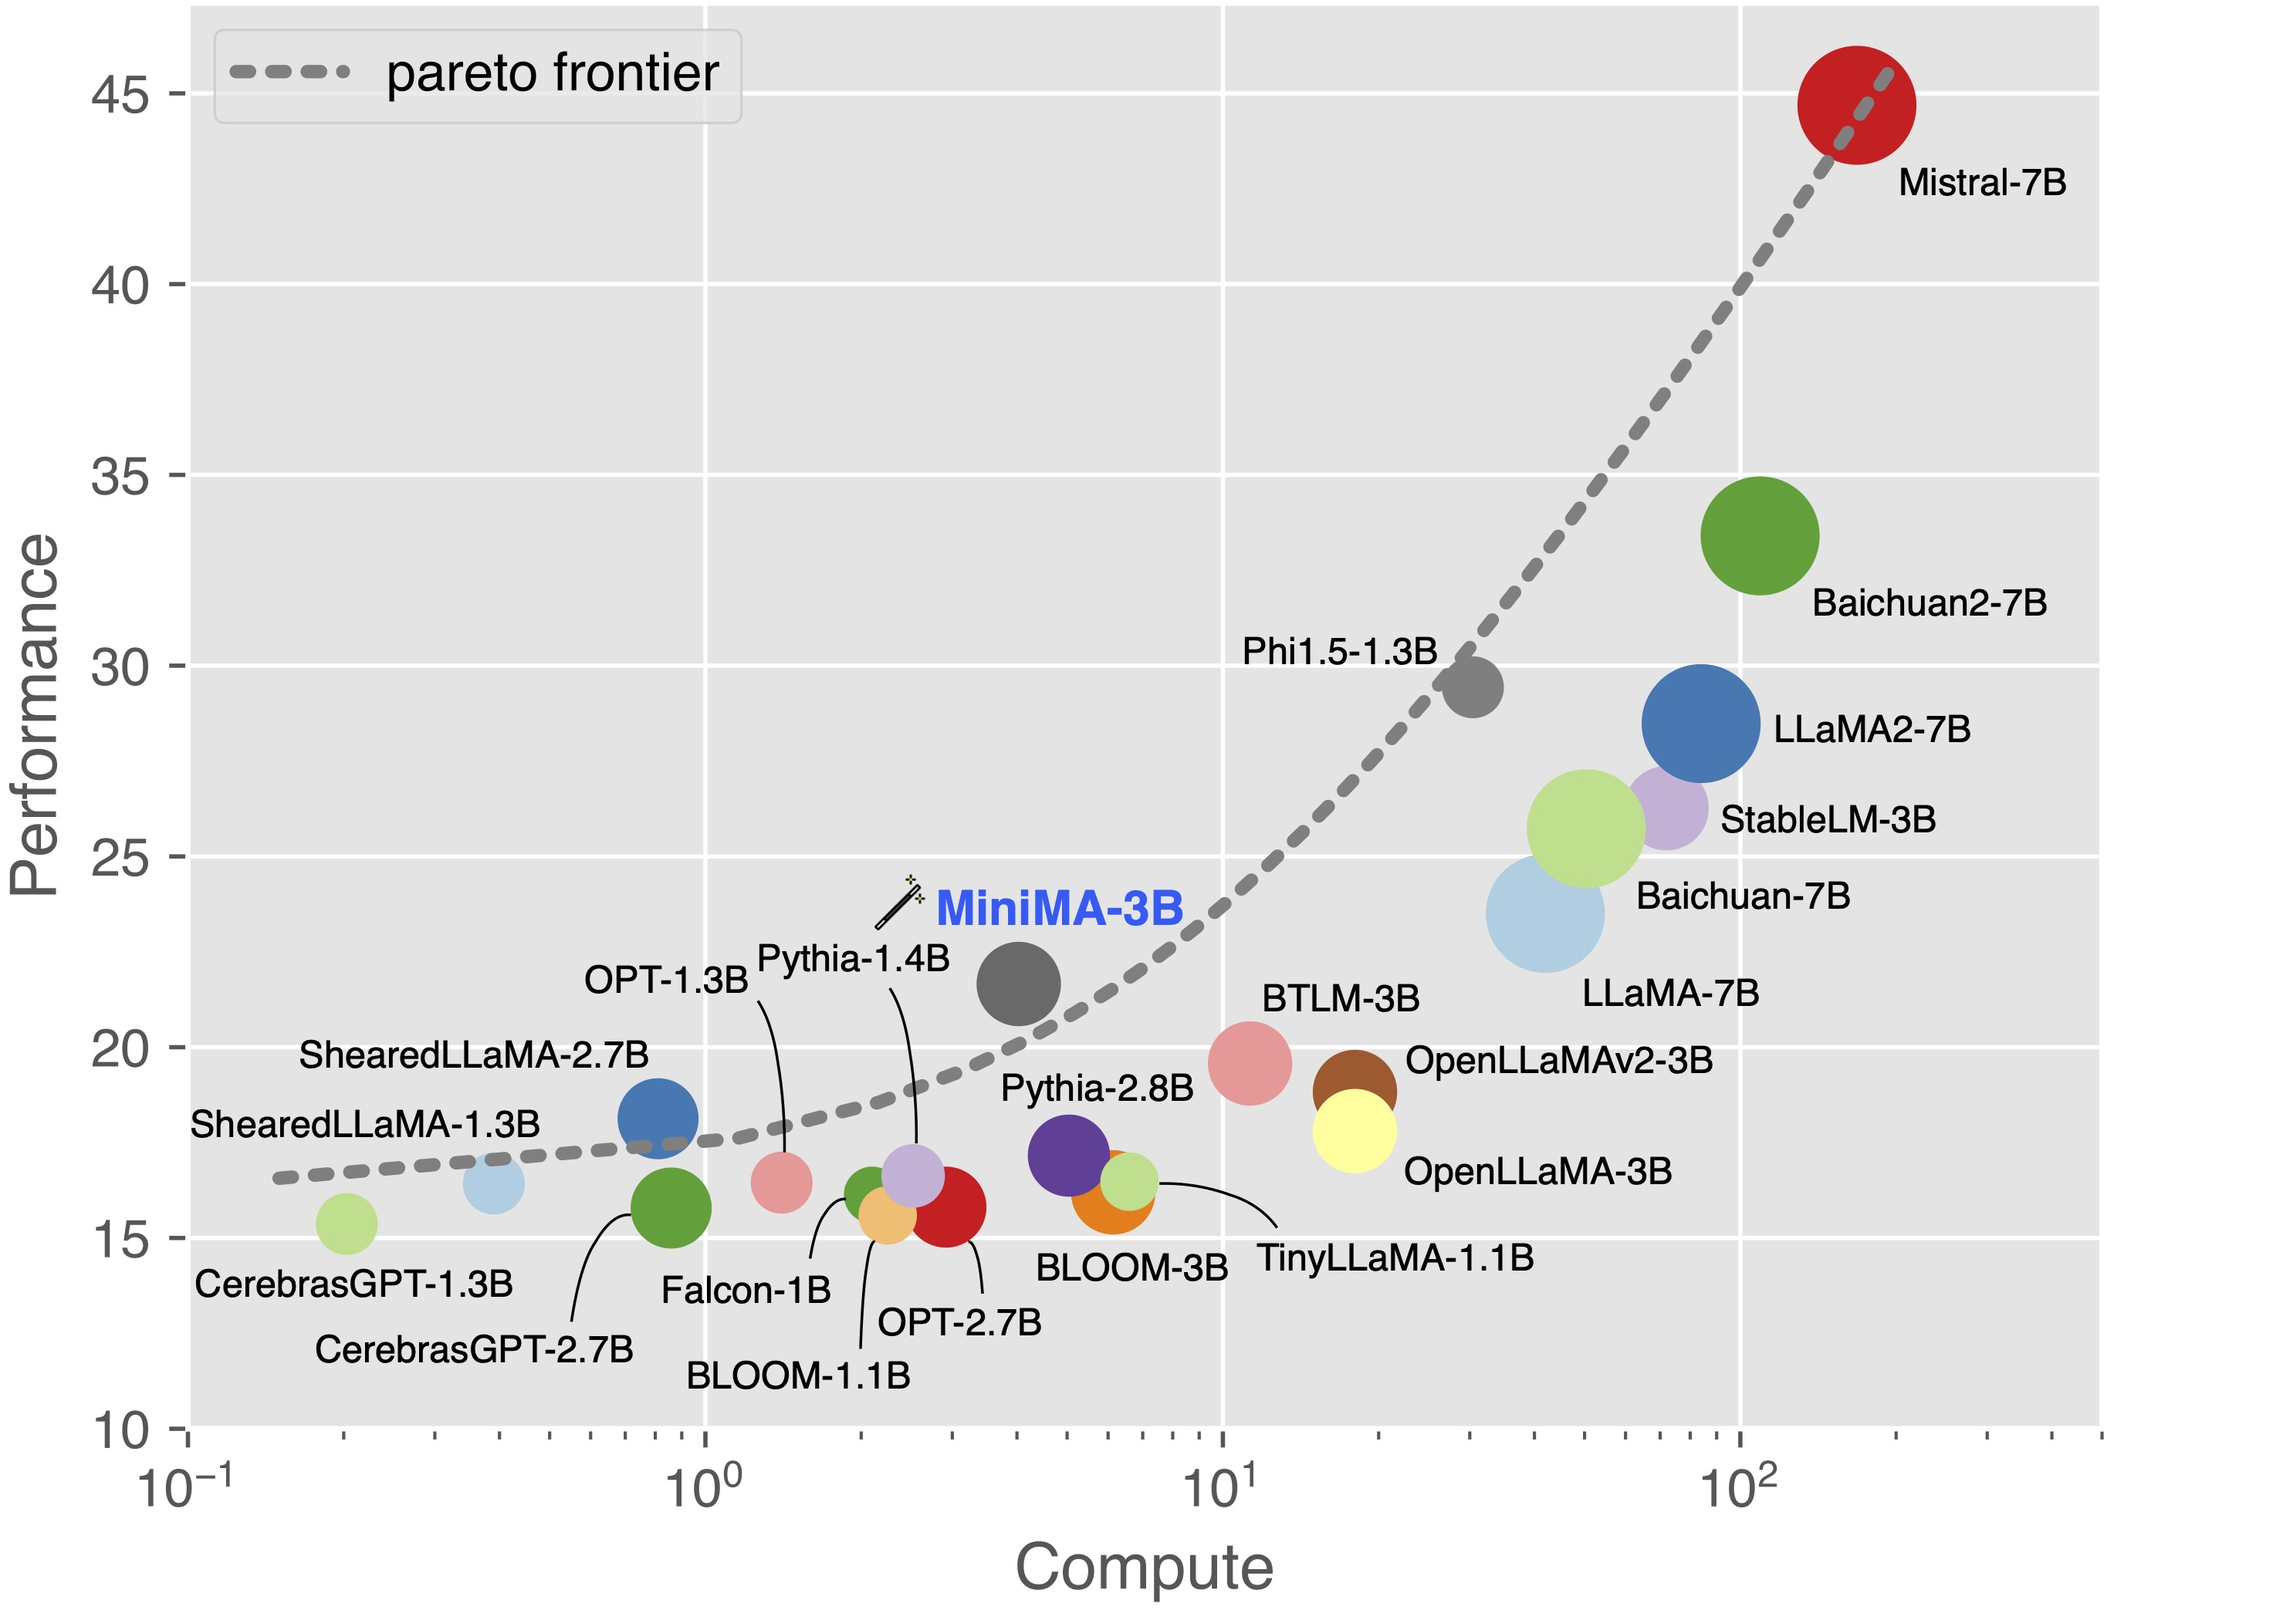
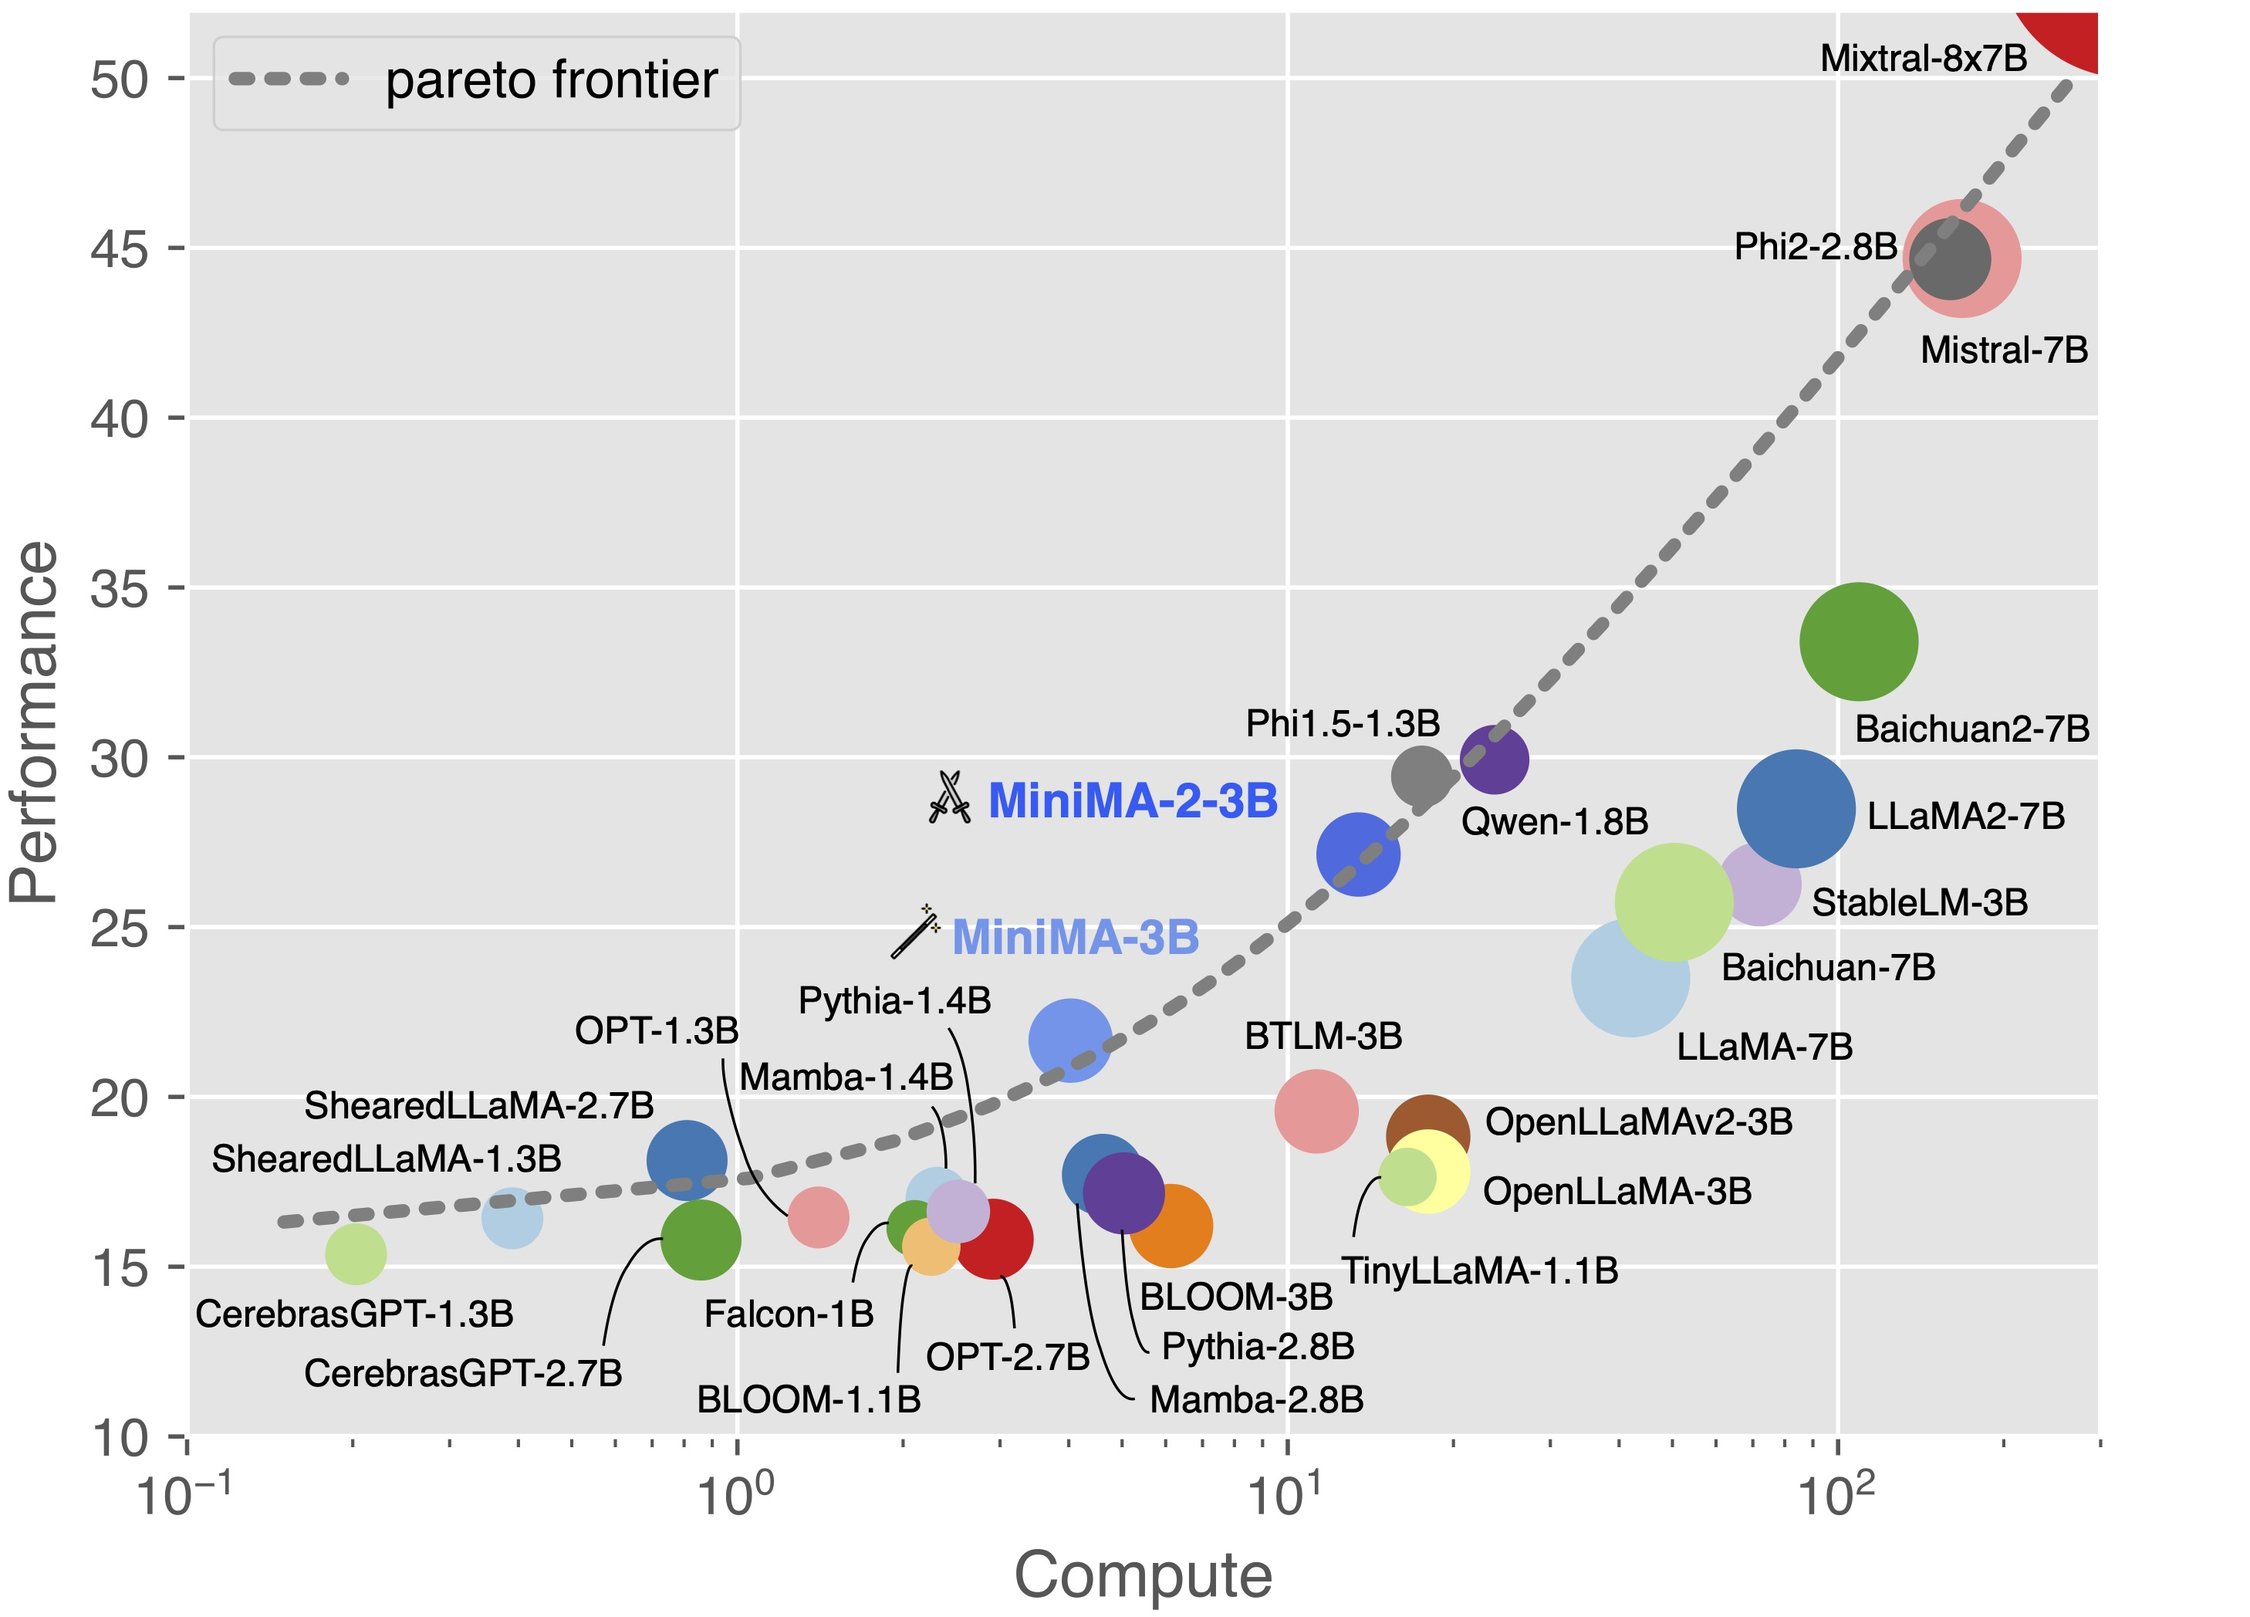
Add MiniMA-2 and MiniChat-2

diff --git a/README.md b/README.md
@@ -5,17 +5,18 @@
 Logo for MiniMA designed with DALL·E
 </p>
 
-📑 [arXiv](https://arxiv.org/abs/2311.07052) | 👻 [GitHub](https://github.com/GeneZC/MiniMA) | 🤗 [HuggingFace-MiniMA](https://huggingface.co/GeneZC/MiniMA-3B) | 🤗 [HuggingFace-MiniChat](https://huggingface.co/GeneZC/MiniChat-3B) | 🤗 [HuggingFace-MiniChat-1.5](https://huggingface.co/GeneZC/MiniChat-1.5-3B) | 🤖 [ModelScope-MiniMA](https://modelscope.cn/models/GeneZC/MiniMA-3B) | 🤖 [ModelScope-MiniChat](https://modelscope.cn/models/GeneZC/MiniChat-3B)
+📑 [arXiv](https://arxiv.org/abs/2311.07052) | 👻 [GitHub](https://github.com/GeneZC/MiniMA) | 🤗 [HuggingFace-MiniMA](https://huggingface.co/GeneZC/MiniMA-3B) | 🤗 [HuggingFace-MiniChat](https://huggingface.co/GeneZC/MiniChat-3B) | 🤖 [ModelScope-MiniMA](https://modelscope.cn/models/GeneZC/MiniMA-3B) | 🤖 [ModelScope-MiniChat](https://modelscope.cn/models/GeneZC/MiniChat-3B) | 🤗 [HuggingFace-MiniChat-1.5](https://huggingface.co/GeneZC/MiniChat-1.5-3B) | 🤗 [HuggingFace-MiniMA-2](https://huggingface.co/GeneZC/MiniMA-2-3B) | 🤗 [HuggingFace-MiniChat-2](https://huggingface.co/GeneZC/MiniChat-2-3B)
 
 Language model (LM) distillation is a trending area that aims to distil the knowledge resided in a large teacher LM to a small student one. While various methods have been proposed to push the distillation to its limits, it is still a pain distilling LMs when a large capacity gap is exhibited between the teacher and the student LMs. The pain is mainly resulted by the curse of capacity gap, which describes that a larger teacher LM cannot always lead to a better student LM than one distilled from a smaller teacher LM due to the affect of capacity gap increment. That is, there is likely an optimal point yielding the best student LM along the scaling course of the teacher LM. Even worse, the curse of capacity gap can be only partly yet not fully lifted as indicated in previous studies.
 
 However, the tale is not ever one-sided. Although a larger teacher LM has better performance than a smaller teacher LM, it is much more resource-demanding especially in the context of recent large LMs (LLMs). Consequently, instead of sticking to lifting the curse, leaving the curse as is should be arguably fine. Even better, in this paper, we reveal that the optimal capacity gap is almost consistent across different student scales and architectures, fortunately turning the curse into the law of capacity gap. The law later guides us to distil a 3B student LM (termed MiniMA) from a 7B teacher LM (adapted LLaMA2-7B). MiniMA is demonstrated to yield a new compute-performance pareto frontier among existing 3B LMs on commonly used benchmarks, and its instruction-tuned version (termed MiniChat) outperforms a wide range of 3B competitors in GPT4 evaluation and could even compete with several 7B chat models. 
 
-<img src="./assets/teaser_a.jpg" alt="teaser_a" width="400" /> <img src="./assets/teaser_b.jpg" alt="teaser_b" width="387"/>
+<img src="./assets/teaser_a.jpg" alt="teaser_a" width="400" /> <img src="./assets/teaser_b.jpg" alt="teaser_b" width="355"/>
 
 ## 🔗 Quick Links
 
 - [Updates](#%EF%B8%8F-updates)
+- [Performance](-performance)
 - [Quick Start](#-quick-start)
 - [Tutorials](#-tutorials)
 - [Future Work](#-future-work)
@@ -24,17 +25,52 @@ However, the tale is not ever one-sided. Although a larger teacher LM has better
 
 ## 🕰 Updates
 
-<img src="./assets/openllm.png" alt="openllm" width="550" /> <img src="./assets/alpacaeval.png" alt="alpacaeval" width="220" />
+[2023/12/27] Performance results are added for potential references in [Performance](#-performance). Still room for improvement, bravo!
 
-[2023/11/27] MiniChat1.5-3B (enhanced with NEFTune and DPO) achieves a win rate of 78.55 : ) Keep going! However, we have found a mistake in our MiniChat-3B submission to AlpacaEval Leaderboard. And the mistake should have been [fixed](https://github.com/tatsu-lab/alpaca_eval/pull/176). MiniChat-3B instead achieves a win rate of 48.82 and can surpass ChatGLM2 but not Davinci-003.
+[2023/12/27] MiniMA-2-3B and MiniChat-2-3B are successfully landed. MiniMA-2-3B is continued from MiniMA-3B with a more diverse data sources in Chinese, and MiniChat-2-3B are finetuned and optimized on a range of instruction and preference data. MiniMA-2-3B together with MiniMA-3B and other arts completes the new compute-performance pareto frontier, and MiniChat-2-3B achieves a score of 6.23 on [MT-Bench](https://huggingface.co/spaces/lmsys/chatbot-arena-leaderboard), surpassing Vicuna-7B and approximating LLaMA-2-Chat-7B.
+
+[2023/11/27] MiniChat-1.5-3B (MiniChat-3B enhanced with NEFTune and DPO) achieves a win rate of 78.55 on AlpacaEval Leaderboard : ) Keep going! However, we have found a mistake in our MiniChat-3B submission. And the mistake should be [fixed](https://github.com/tatsu-lab/alpaca_eval/pull/176). MiniChat-3B instead achieves a win rate of 48.82 and can surpass ChatGLM2 but not Davinci-003.
 
 [2023/11/16] MiniChat-3B achieves a win rate of ~~76.94~~ 48.82 on [AlpacaEval Leaderboard](https://tatsu-lab.github.io/alpaca_eval/), ~~surpassing Vicuna-7B v1.3 and~~ leaving large room for improvement.
 
-[2023/11/15] Wait, what!? MiniMA2 is on the way! Just stay tuned ; ) The release is scheduled at the begining of year 2024 and hopefully it could be timely.
+[2023/11/15] Wait, what!? MiniMA-2 is on the way! Just stay tuned ; ) The release is scheduled at the begining of year 2024 and hopefully it could be timely.
 
-[2023/11/14] For models <= 3B on [Open LLM Leaderboard](https://huggingface.co/spaces/HuggingFaceH4/open_llm_leaderboard), MiniMA surpasses ShearedLLaMA-2.7B and ranks #14, and MiniChat (potentially with unidentified data contamination) surpasses Phi1.5 and ranks #2.
+[2023/11/14] For models <= 3B on [Open LLM Leaderboard](https://huggingface.co/spaces/HuggingFaceH4/open_llm_leaderboard), MiniMA-3B surpasses ShearedLLaMA-2.7B and ranks #14, and MiniChat-3B (potentially with unidentified data contamination) surpasses Phi1.5 and ranks #2.
 
 [2023/11/14] We have released the paper, uploaded the checkpoints, and updated the codebase.
+
+## 📊 Performance
+
+**Standard Benchmarks**
+
+|Method|TFLOPs|MMLU (5-shot)|CEval (5-shot)|DROP (3-shot)|HumanEval (0-shot)|BBH (3-shot)|GSM8K (8-shot)|
+|--|--|--|--|--|--|--|--|
+|Mamba-2.8B|4.6E9|25.58|24.74|15.72|7.32|29.37|3.49|
+|ShearedLLaMA-2.7B|0.8E9|26.97|22.88|19.98|4.88|30.48|3.56|
+|BTLM-3B|11.3E9|27.20|26.00|17.84|10.98|30.87|4.55|
+|StableLM-3B|72.0E9|44.75|31.05|22.35|15.85|32.59|10.99|
+|Qwen-1.8B|23.8E9|44.05|54.75|12.97|14.02|30.80|22.97|
+|Phi-2-2.8B|159.9E9|56.74|34.03|30.74|46.95|44.13|55.42|
+|LLaMA-2-7B|84.0E9|46.00|34.40|31.57|12.80|32.02|14.10|
+||
+|MiniMA-3B|4.0E9|28.51|28.23|22.50|10.98|31.61|8.11|
+|MiniChat-3B|4.0E9|38.40|36.48|22.58|18.29|31.36|29.72|
+|MiniMA-2-3B|13.4E9|40.14|44.65|23.10|14.63|31.43|8.87|
+|MiniChat-2-3B|13.4E9|46.17|43.91|30.26|22.56|34.95|38.13|
+
+**Instruction-following Benchmarks**
+
+|Method|AlpacaEval|MT-Bench|
+|--|--|--|
+|GPT-4|95.28|9.18|
+|Zephyr-7B-Beta|90.60|7.34|
+|Phi-2-DPO|81.37|-|
+|StableLM Zephyr 3B|76.00|6.64|
+|Vicuna-7B|76.84|6.17|
+|LLaMA-2-Chat-7B|71.37|6.27|
+||
+|MiniChat-3B|48.82|-|
+|MiniChat-2-3B|77.30|6.23|
 
 ## ✨ Quick Start
 
@@ -48,11 +84,11 @@ import torch
 from transformers import AutoModelForCausalLM, AutoTokenizer
 
 # MiniMA
-tokenizer = AutoTokenizer.from_pretrained("GeneZC/MiniMA-3B", use_fast=False)
+tokenizer = AutoTokenizer.from_pretrained("GeneZC/MiniMA-2-3B", use_fast=False)
 # GPU.
-model = AutoModelForCausalLM.from_pretrained("GeneZC/MiniMA-3B", use_cache=True, device_map="auto", torch_dtype=torch.float16).eval()
+model = AutoModelForCausalLM.from_pretrained("GeneZC/MiniMA-2-3B", use_cache=True, device_map="auto", torch_dtype=torch.float16).eval()
 # CPU.
-# model = AutoModelForCausalLM.from_pretrained("GeneZC/MiniMA-3B", use_cache=True, device_map="cpu", torch_dtype=torch.float16).eval()
+# model = AutoModelForCausalLM.from_pretrained("GeneZC/MiniMA-2-3B", use_cache=True, device_map="cpu", torch_dtype=torch.float16).eval()
 
 prompt = "Question: Sherrie tells the truth. Vernell says Sherrie tells the truth. Alexis says Vernell lies. Michaela says Alexis tells the truth. Elanor says Michaela tells the truth. Does Elanor tell the truth?\nAnswer: No\n\nQuestion: Kristian lies. Sherrie says Kristian lies. Delbert says Sherrie lies. Jerry says Delbert tells the truth. Shalonda says Jerry tells the truth. Does Shalonda tell the truth?\nAnswer: No\n\nQuestion: Vina tells the truth. Helene says Vina lies. Kandi says Helene tells the truth. Jamey says Kandi lies. Ka says Jamey lies. Does Ka tell the truth?\nAnswer: No\n\nQuestion: Christie tells the truth. Ka says Christie tells the truth. Delbert says Ka lies. Leda says Delbert tells the truth. Lorine says Leda tells the truth. Does Lorine tell the truth?\nAnswer:"
 input_ids = tokenizer([prompt]).input_ids
@@ -69,11 +105,11 @@ output = tokenizer.decode(output_ids, skip_special_tokens=True).strip()
 from conversation import get_default_conv_template
 
 # MiniChat
-tokenizer = AutoTokenizer.from_pretrained("GeneZC/MiniChat-3B", use_fast=False)
+tokenizer = AutoTokenizer.from_pretrained("GeneZC/MiniChat-2-3B", use_fast=False)
 # GPU.
-model = AutoModelForCausalLM.from_pretrained("GeneZC/MiniChat-3B", use_cache=True, device_map="auto", torch_dtype=torch.float16).eval()
+model = AutoModelForCausalLM.from_pretrained("GeneZC/MiniChat-2-3B", use_cache=True, device_map="auto", torch_dtype=torch.float16).eval()
 # CPU.
-# model = AutoModelForCausalLM.from_pretrained("GeneZC/MiniChat-3B", use_cache=True, device_map="cpu", torch_dtype=torch.float16).eval()
+# model = AutoModelForCausalLM.from_pretrained("GeneZC/MiniChat-2-3B", use_cache=True, device_map="cpu", torch_dtype=torch.float16).eval()
 
 conv = get_default_conv_template("minichat")
 
@@ -102,13 +138,12 @@ Detailed tutorials can be found [here](./TUTORIAL.md).
 
 ## 🔮 Future Work
 
-- A more diverse blend of data sources, e.g., Chinese wikipedia, books, etc.
-- Combined with preference optimization, e.g., DPO to MiniChat.
-- Smaller models, e.g., 1.2B model, say NanoMA.
-- Designed for speculative sampling, e.g., MiniMA to LLaMA for inference efficiency.
-- Designed with infinite inference length, e.g., attention sinks.
-- Integrated with vision, e.g., MiniChat-V.
-- Compatible with long context, e.g., MiniChat-L.
+- [x] Combined with preference optimization, e.g., DPO to MiniChat.
+- [x] A more diverse blend of data sources, e.g., Chinese wikipedia, books, etc.
+- [] MoE models, e.g. MiniMA-MoE.
+- [] Designed for speculative sampling, e.g., MiniMA to LLaMA for inference efficiency.
+- [] Designed with infinite inference length, e.g., attention sinks.
+- [] Integrated with vision, e.g., MiniChat-V.
 
 ## 🤔 Bugs or Questions?
 
